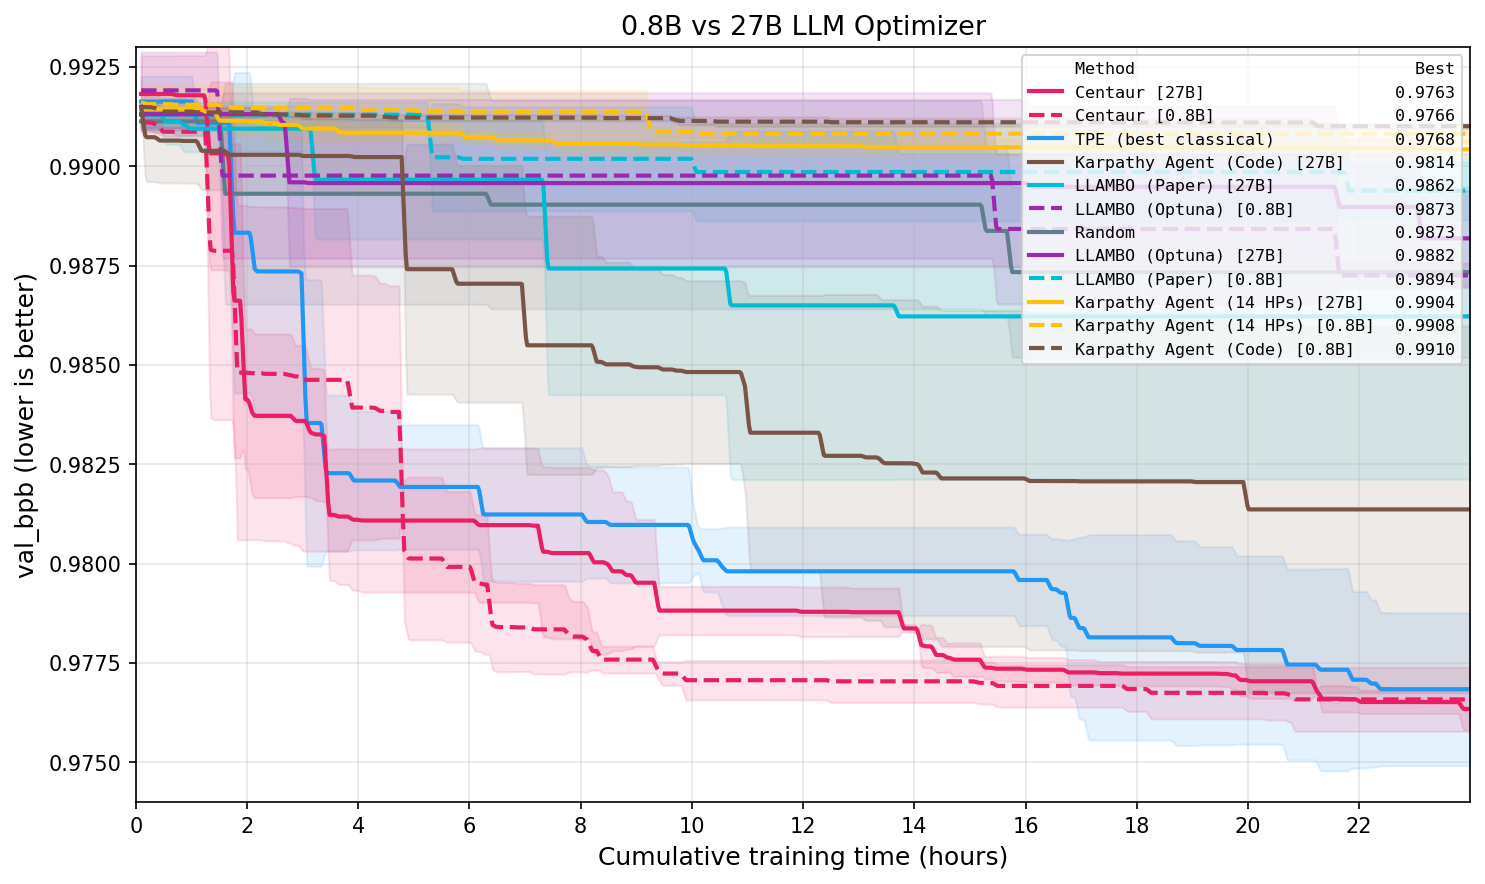
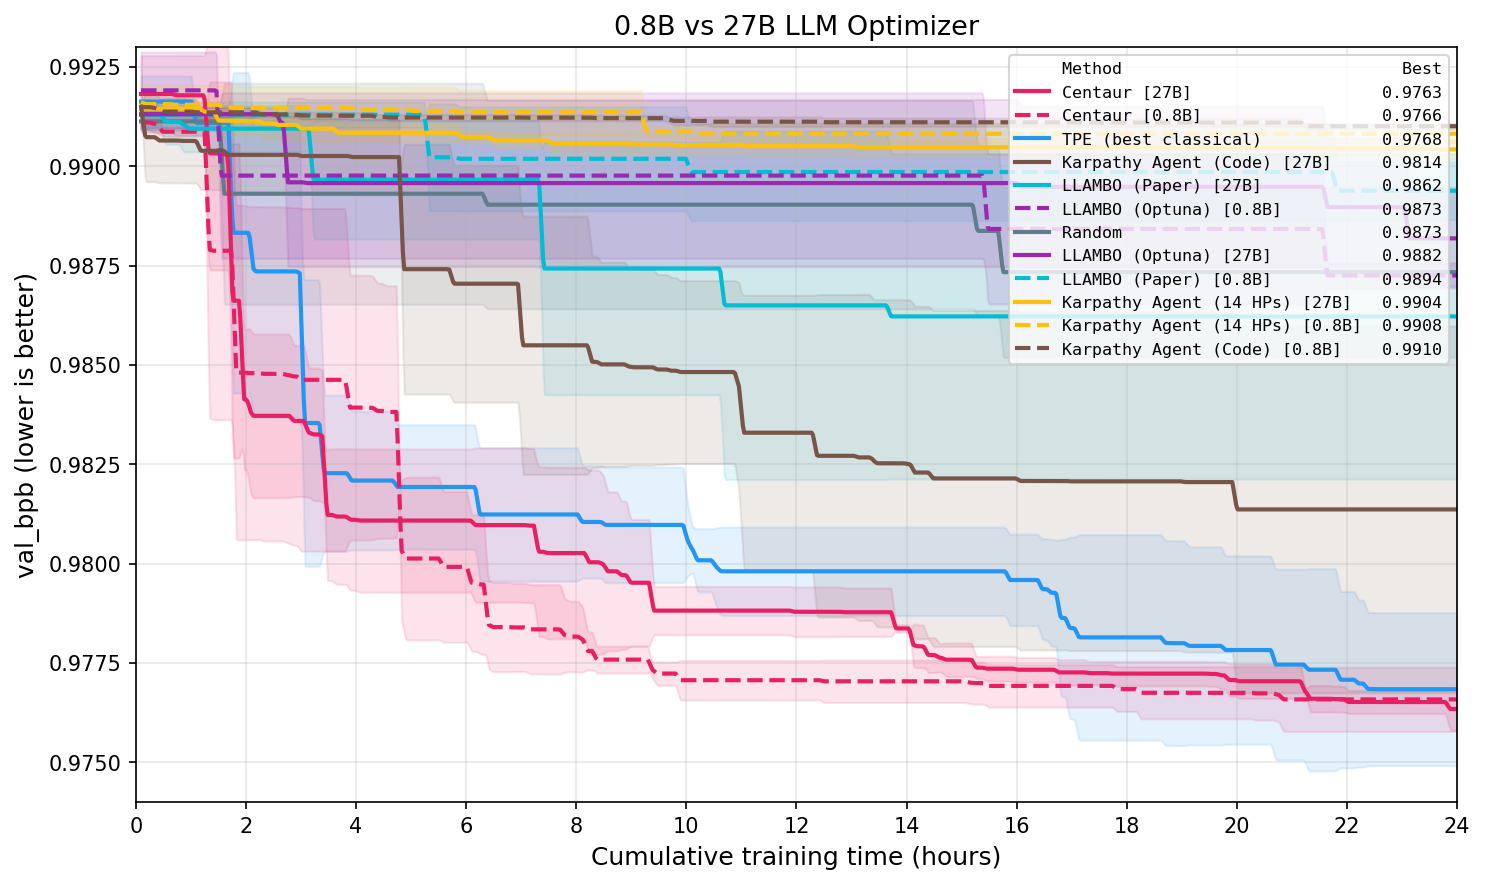
Fix x-axis: force xlim=24, explicit ticks 0,2,...,24

diff --git a/scripts/plot_convergence.py b/scripts/plot_convergence.py
@@ -130,7 +130,7 @@ def plot_convergence_walltime(
     if xlim_hours:
         ax.set_xlim(*xlim_hours)
     else:
-        ax.set_xlim(0, min(max_time, 24))
+        ax.set_xlim(0, 24)
     ax.set_xticks(range(0, int(ax.get_xlim()[1]) + 1, 2))
     ax.grid(True, alpha=0.3)
 
